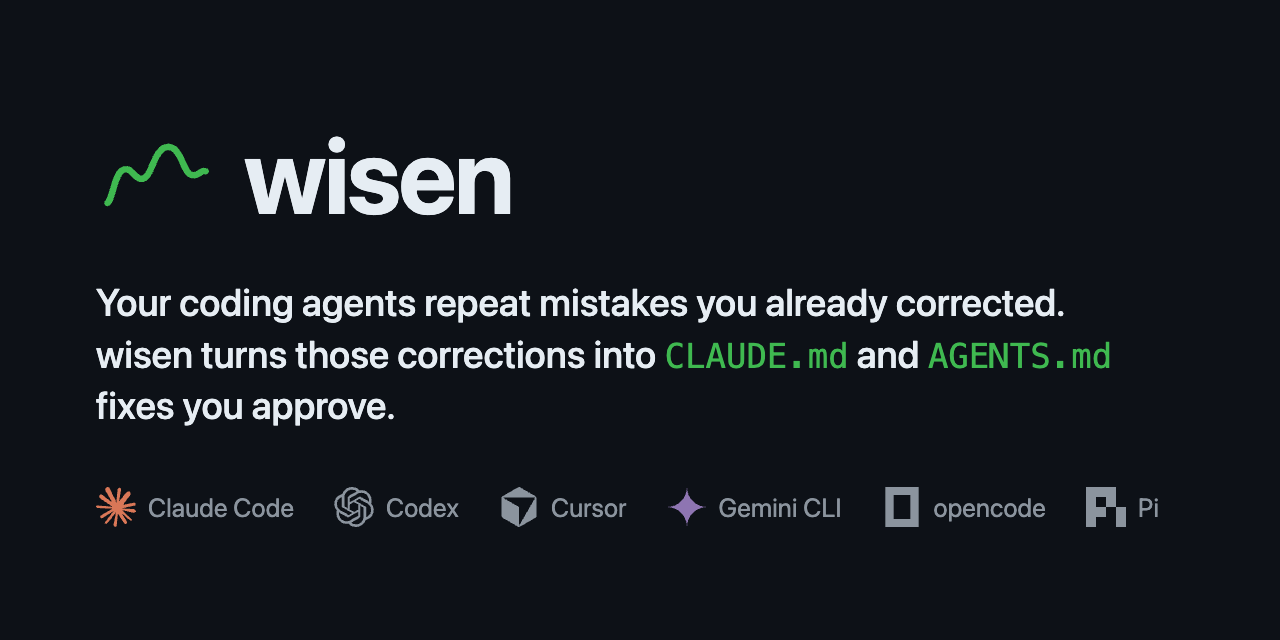
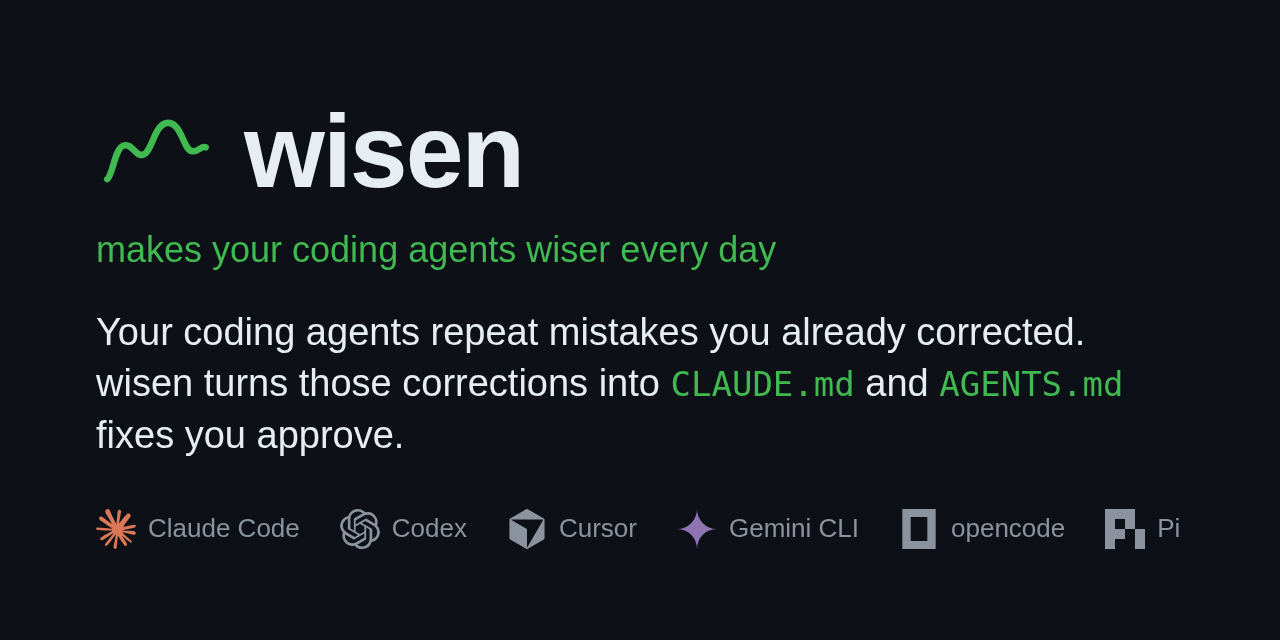
docs: smaller approve button in the gif, tagline on the social preview

diff --git a/docs/assets/social-preview.html b/docs/assets/social-preview.html
@@ -1,7 +1,7 @@
 <!doctype html>
 <!-- Source for social-preview.png (the GitHub social preview, 1280x640).
      Re-render from the repo root:
-     "/Applications/Google Chrome.app/Contents/MacOS/Google Chrome" --headless --hide-scrollbars \
+     google-chrome --headless --hide-scrollbars \
        --force-device-scale-factor=1 --window-size=1280,640 \
        --screenshot=docs/assets/social-preview.png docs/assets/social-preview.html -->
 <html>
@@ -20,9 +20,10 @@
   .brand { display: flex; align-items: center; gap: 28px; }
   .brand img { width: 120px; height: 120px; }
   .brand h1 { margin: 0; font-size: 104px; font-weight: 700; letter-spacing: -2px; }
-  .hook { margin: 40px 0 0; font-size: 38px; line-height: 1.35; font-weight: 500; max-width: 1090px; text-wrap: balance; }
+  .tag { margin: 18px 0 0; font-size: 36px; font-weight: 500; color: #3fb950; }
+  .hook { margin: 36px 0 0; font-size: 38px; line-height: 1.35; font-weight: 500; max-width: 1090px; text-wrap: balance; }
   .hook code { font-family: ui-monospace, Menlo, monospace; font-size: 34px; color: #3fb950; }
-  .agents { margin-top: 56px; display: flex; gap: 40px; align-items: center; }
+  .agents { margin-top: 48px; display: flex; gap: 40px; align-items: center; }
   .agent { display: flex; align-items: center; gap: 12px; font-size: 26px; color: #8b949e; }
   .agent img { width: 40px; height: 40px; }
 </style>
@@ -32,6 +33,7 @@
     <img src="logo.svg" alt="">
     <h1>wisen</h1>
   </div>
+  <p class="tag">makes your coding agents wiser every day</p>
   <p class="hook">Your coding agents repeat mistakes you already corrected.<br>
     wisen turns those corrections into <code>CLAUDE.md</code> and <code>AGENTS.md</code> fixes you approve.</p>
   <div class="agents">

diff --git a/docs/assets/wisen-hook.html b/docs/assets/wisen-hook.html
@@ -45,11 +45,11 @@
           padding: 22px 26px; border-radius: 10px; animation: in .35s ease-out 3.9s both; }
   .btnrow { margin-top: 56px; display: flex; align-items: center; gap: 28px; position: relative;
             animation: in .3s ease-out 4.6s both; }
-  .btn { font-size: 46px; font-weight: 700; padding: 18px 46px; border-radius: 14px;
+  .btn { font-size: 32px; font-weight: 700; padding: 14px 36px; border-radius: 12px;
          border: 3px solid #3fb950; color: #3fb950;
          animation: press .25s ease-in-out 5.9s both, approved .01s linear 6.05s both; }
-  .done { white-space: nowrap; font-size: 40px; font-weight: 600; color: #3fb950; animation: in .3s ease-out 6.25s both; }
-  .ptr { position: absolute; left: 190px; top: 70px; width: 44px; height: 44px;
+  .done { white-space: nowrap; font-size: 34px; font-weight: 600; color: #3fb950; animation: in .3s ease-out 6.25s both; }
+  .ptr { position: absolute; left: 140px; top: 52px; width: 44px; height: 44px;
          animation: cursor .9s ease-out 4.9s both; }
 </style>
 </head>
